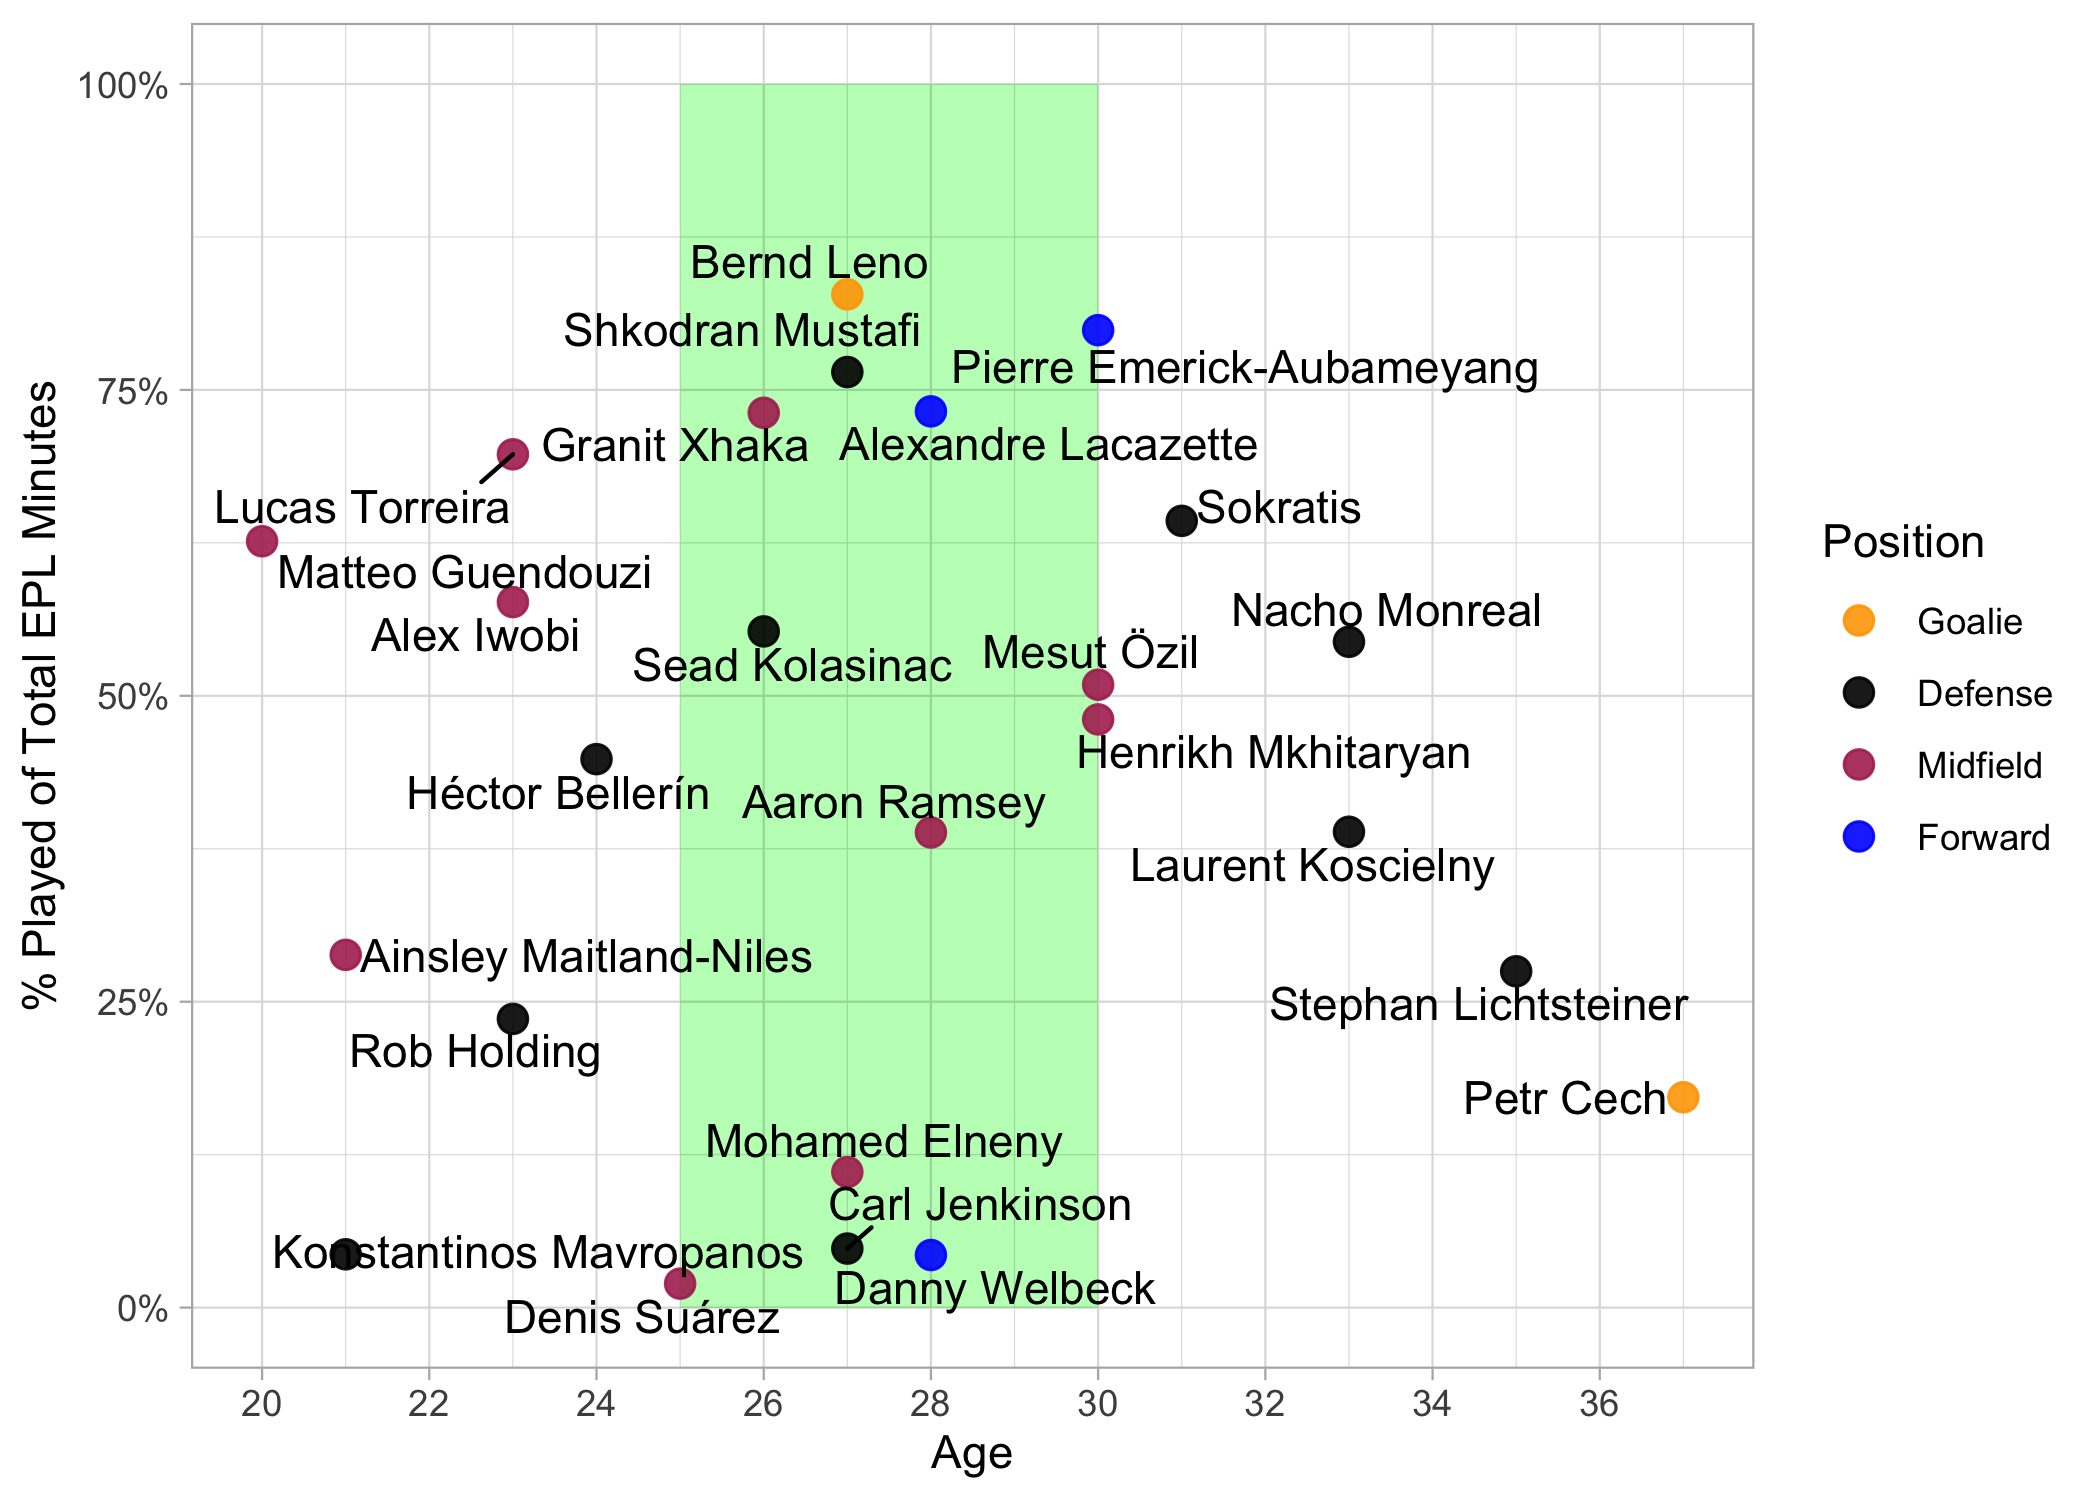
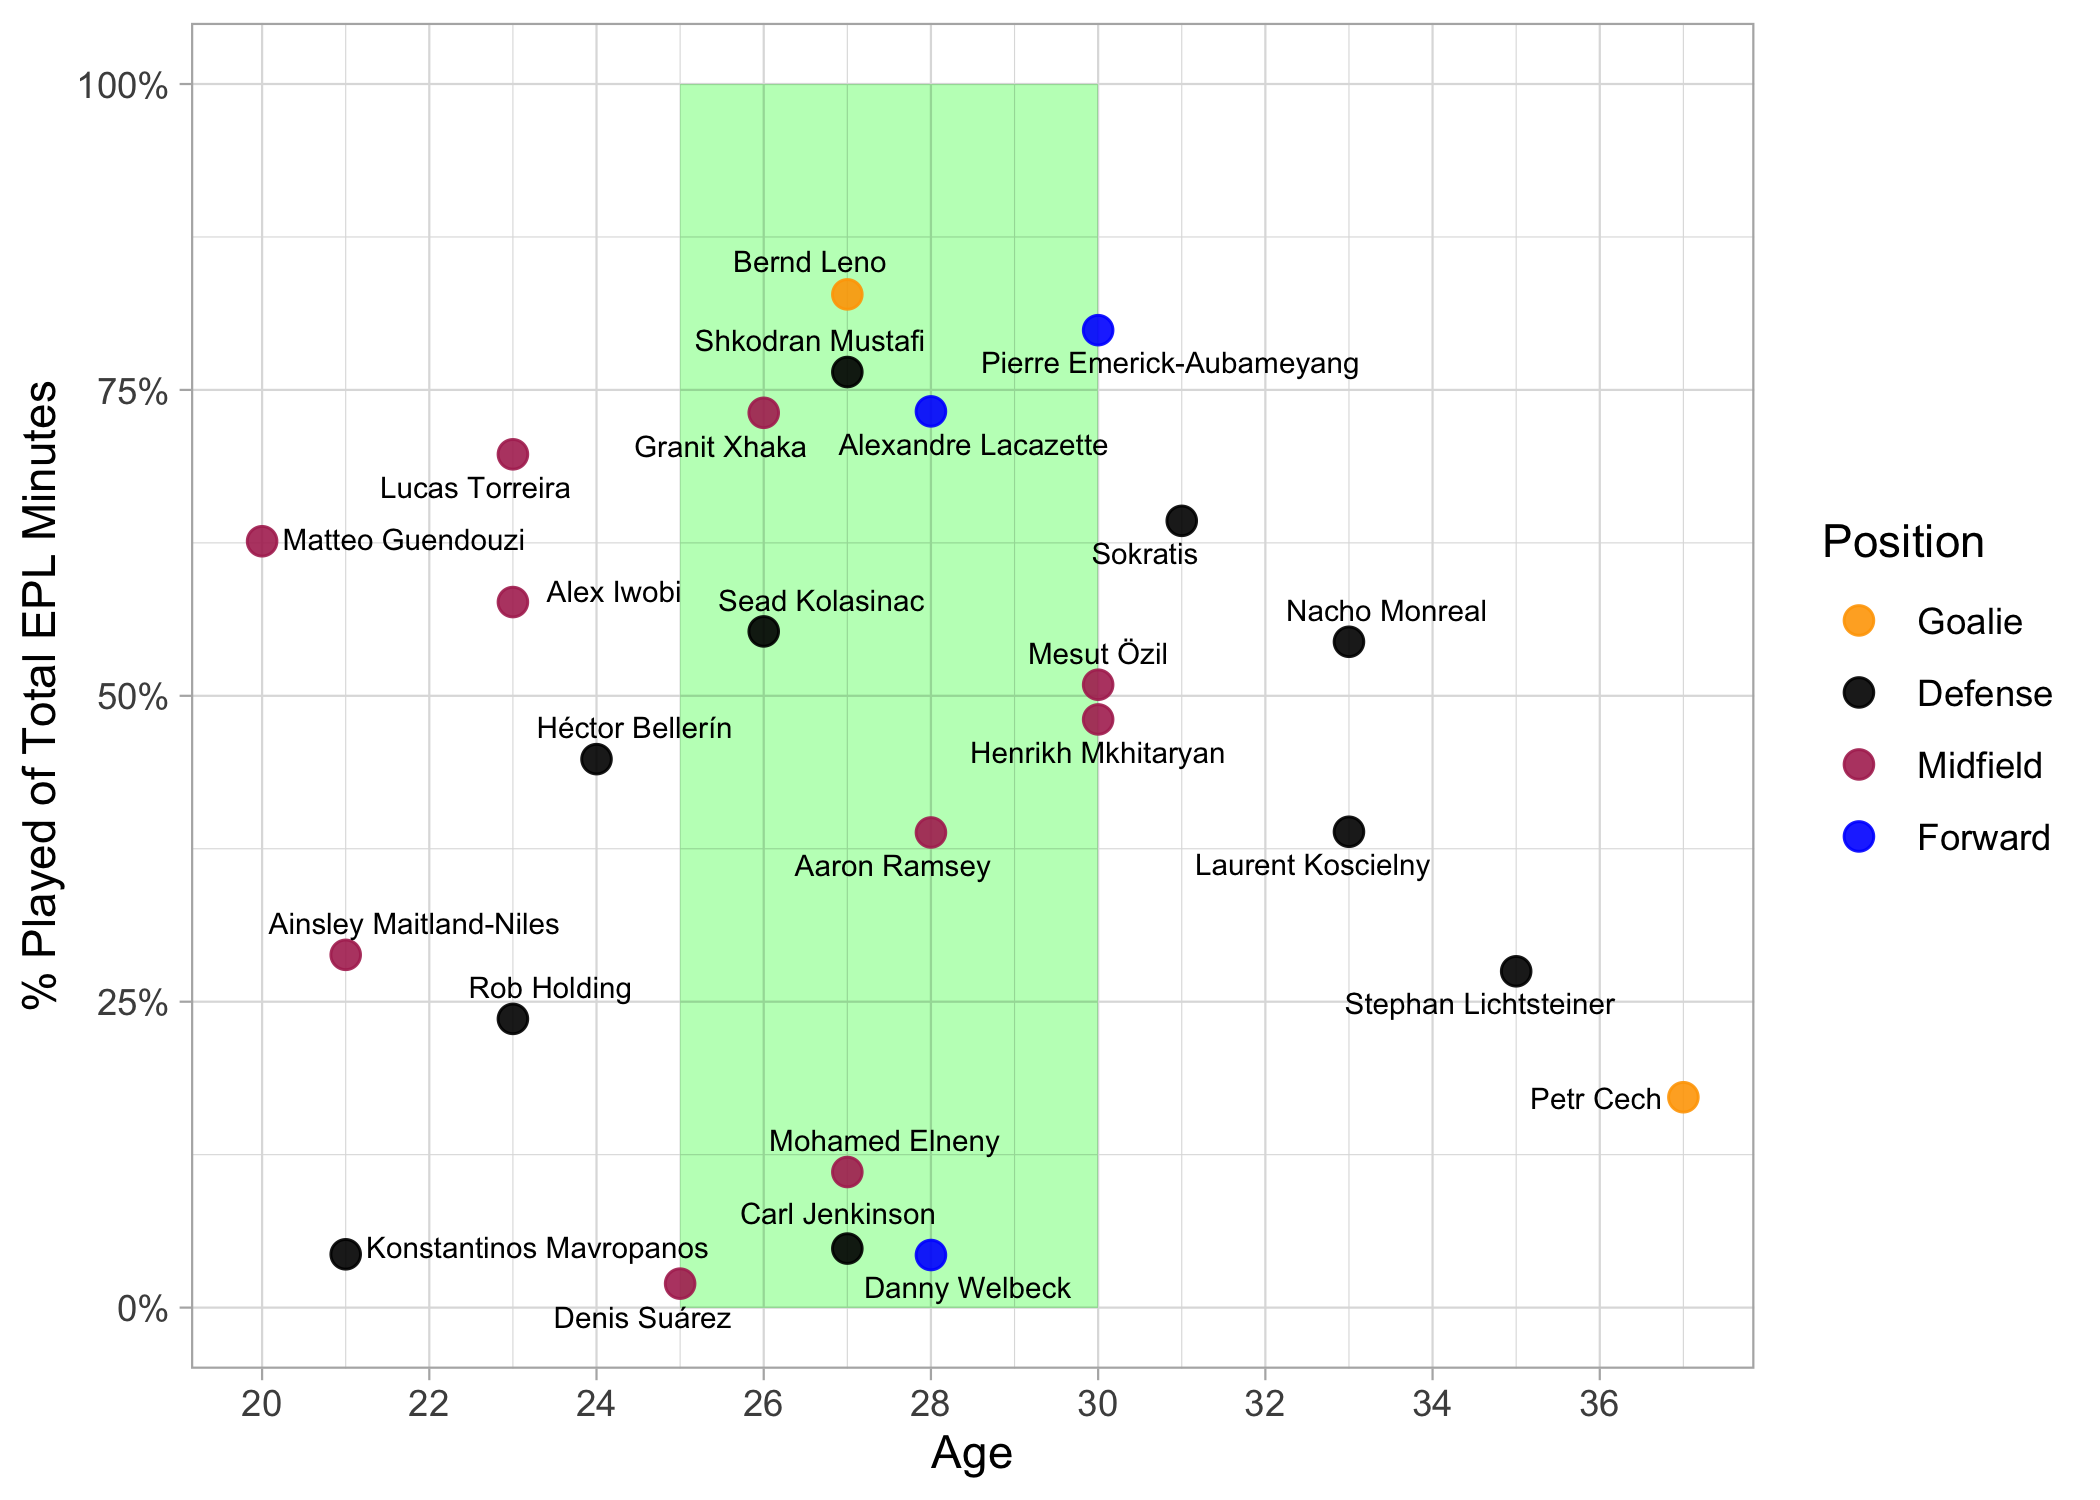
-Adjusted figure width and text-size

diff --git a/squad_age_profile_analysis.md b/squad_age_profile_analysis.md
@@ -223,7 +223,7 @@ afc %>%
   labs(y = "% of Total EPL Minutes")
 ```
 
-![](squad_age_profile_analysis_files/figure-markdown_github/unnamed-chunk-13-1.png)
+<img src="squad_age_profile_analysis_files/figure-markdown_github/unnamed-chunk-13-1.png" width="7" />
 
 We can see the graph looks a bit messy with some overlapping names. We
 can use the `ggrepel` package to help clean things up.
@@ -236,14 +236,14 @@ p <- afc %>% ggplot(aes(x = Age, y = total_mins/(38*90)))
 
 p + 
   geom_point(aes(color = Position), size = 3.0, alpha = 0.9) +
-  ggrepel::geom_text_repel(aes(label = Name), hjust = 0.5) +
+  ggrepel::geom_text_repel(aes(label = Name), hjust = 0.5, size = 2.5, point.padding = 0.05) +
   scale_color_manual(values = c("orange","black","maroon","blue")) +
   scale_x_continuous(breaks = seq(18,40, by=2)) +
   scale_y_continuous(labels = scales::percent_format()) +
   labs(y = "% Played of Total EPL Minutes")
 ```
 
-![](squad_age_profile_analysis_files/figure-markdown_github/unnamed-chunk-14-1.png)
+<img src="squad_age_profile_analysis_files/figure-markdown_github/unnamed-chunk-14-1.png" width="7" />
 
 This looks good but let’s go one-step farther by adding a shaded region
 showing the peak age-bracket which we’ll define as from 25 - 30 years
@@ -253,7 +253,7 @@ old.
 p <- p +
   geom_rect(fill = "green", alpha = 0.01, aes(xmin=25, xmax=30, ymin=0, ymax=1)) +
   geom_point(aes(color = Position), size = 3.0, alpha = 0.9) +
-  ggrepel::geom_text_repel(aes(label = Name), hjust = 0.5) +
+  ggrepel::geom_text_repel(aes(label = Name), hjust = 0.5, size = 2.5, point.padding = 0.1) +
   scale_color_manual(values = c("orange","black","maroon","blue")) +
   scale_x_continuous(breaks = seq(18,40, by=2)) +
   scale_y_continuous(labels = scales::percent_format()) +
@@ -262,7 +262,7 @@ p <- p +
 p
 ```
 
-![](squad_age_profile_analysis_files/figure-markdown_github/unnamed-chunk-15-1.png)
+<img src="squad_age_profile_analysis_files/figure-markdown_github/unnamed-chunk-15-1.png" width="7" />
 
 we’ll wrap up by adding a title and some annotations.
 
@@ -272,7 +272,15 @@ p + labs(
   subtitle = "Premier League, 2018/19",
   caption = "Data from Whoscored.com/ESPN"
 ) +
-  annotate("text", x = 28, y = 0.95, label = "Peak Years", size = 4.0)
+  theme(
+    axis.title=element_text(size=6.0),
+    plot.title = element_text(size = 8.0), 
+    plot.subtitle = element_text(size = 6.0),
+    plot.caption = element_text(size = 3.0),
+    legend.title = element_text(size = 6.0),
+    legend.text = element_text(size = 4.0)
+    ) +
+  annotate("text", x = 28, y = 0.95, label = "Peak Years", size = 3.5)
 ```
 
-![](squad_age_profile_analysis_files/figure-markdown_github/unnamed-chunk-16-1.png)
+<img src="squad_age_profile_analysis_files/figure-markdown_github/unnamed-chunk-16-1.png" width="7" />
